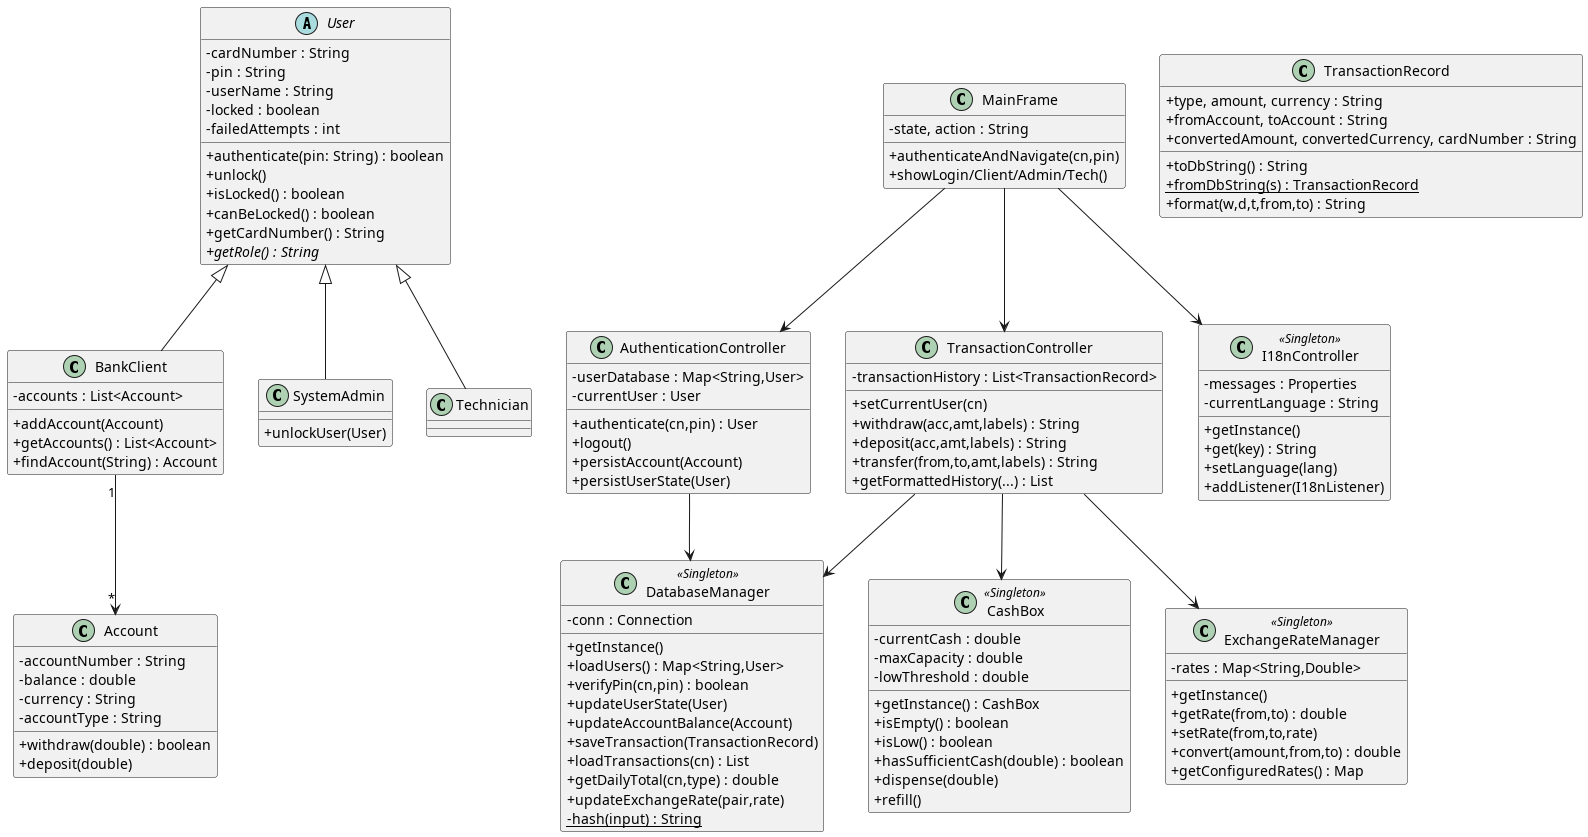
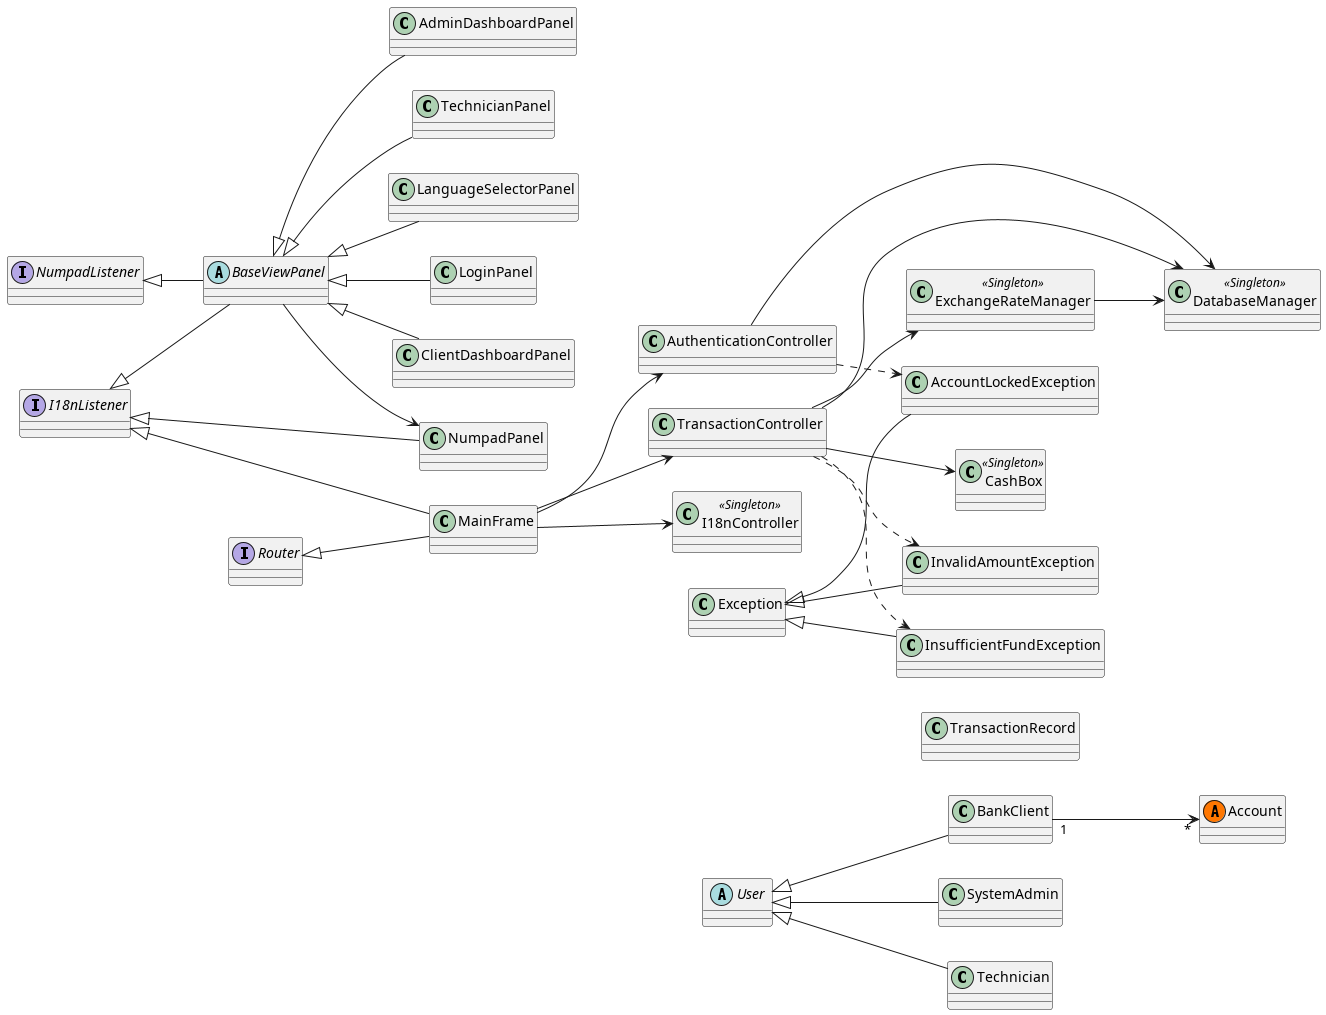
some update

Changed region(s): [[0.0, 0.0, 1.0, 1.0], [0.0, 0.7145, 0.1546, 0.9319], [0.2783, 0.0, 0.4329, 0.0621]]

diff --git a/d2/software_design.md b/d2/software_design.md
@@ -89,36 +89,21 @@ d2/src/
 The iBank application follows the **Model-View-Controller (MVC)** pattern with a **Singleton-based service layer** for shared state. The architecture uses **Java Swing** for the UI and **SQLite** via JDBC for persistence.
 
 ```
-┌────────────────────────────────────────┐
-│              MainFrame (View+Router)    │
-│  ┌──────────┐  ┌──────────────┐        │
-│  │ SideBtns │  │ Center Panel │        │
-│  │ (L/R)    │  │ (CardLayout) │        │
-│  └──────────┘  └──────────────┘        │
-│  ┌──────────────────────────────┐      │
-│  │       Numpad (Keypad)        │      │
-│  └──────────────────────────────┘      │
-└────────────┬───────────────────────────┘
-             │
-    ┌────────┴────────┐
-    │   Controllers   │
-    │  AuthCtrl       │
-    │  TxnCtrl        │
-    │  I18nCtrl       │
-    └────────┬────────┘
-             │
-    ┌────────┴────────┐
-    │     Models      │
-    │  User/Account   │
-    │  CashBox        │
-    │  ExchangeRate   │
-    │  Database       │
-    └────────┬────────┘
-             │
-    ┌────────┴────────┐
-    │   SQLite DB     │
-    │  (~/.ibank.db)  │
-    └─────────────────┘
+@startuml
+!theme plain
+
+rectangle "MainFrame (View + Router)\n════════════════════\n• Side Buttons (L/R)\n• Center Panel (CardLayout)\n• Numpad (Keypad)" as mf #LightBlue
+
+rectangle "Controllers\n══════════\n• AuthCtrl\n• TxnCtrl\n• I18nCtrl" as ctrl #LightGreen
+
+rectangle "Models\n══════\n• User / Account\n• CashBox\n• ExchangeRate\n• Database" as models #LightYellow
+
+database "SQLite DB\n(~/.ibank.db)" as sqlite #LightGray
+
+mf -down-> ctrl : uses
+ctrl -down-> models : operates on
+models -down-> sqlite : persists via JDBC
+@enduml
 ```
 
 ---